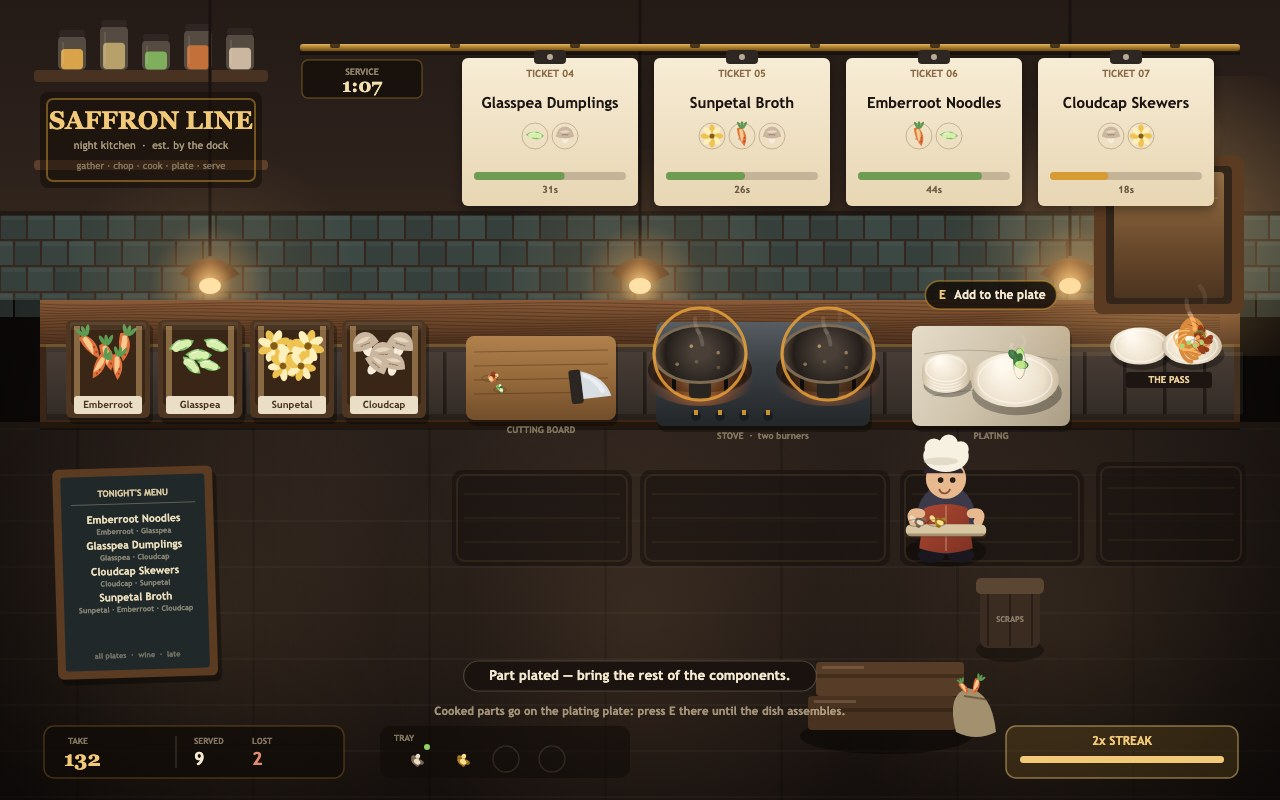
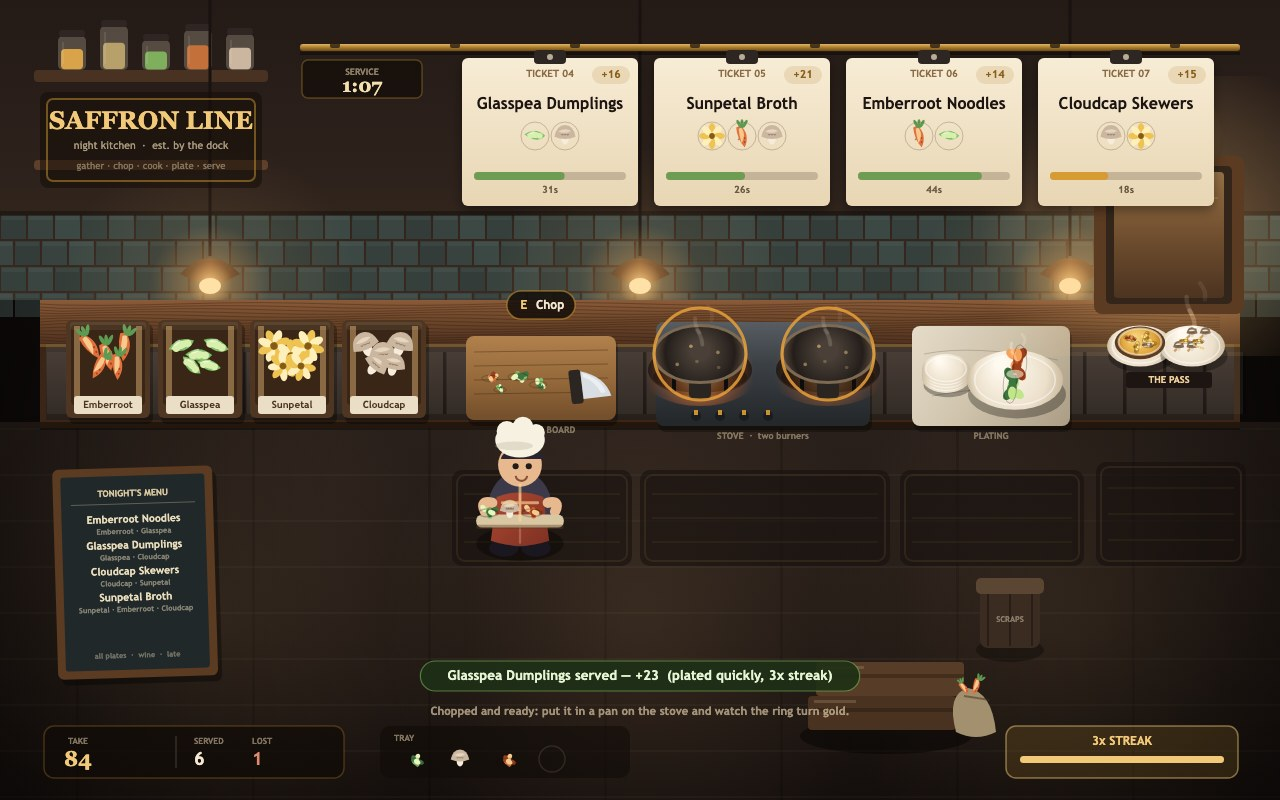
Sharper service framing: bigger chef, ticket payouts, fuller plates
Restage the cover around plating mid-assembly with finished plates on the
pass, and make the food, tickets and chef read at a glance.

diff --git a/game/src/main.js b/game/src/main.js
@@ -252,16 +252,44 @@ function seedShot(index) {
   const chef = game.chef;
 
   if (index === 1) {
-    order('ember_noodles', 39, 54);
-    order('glass_dumplings', 24, 50);
-    order('cloud_skewers', 33, 48);
-    order('sun_broth', 12, 46);
+    order('glass_dumplings', 31, 52);
+    order('sun_broth', 26, 50);
+    order('ember_noodles', 44, 54);
+    order('cloud_skewers', 18, 47);
+    game.pans[0].item = true;
+    game.pans[0].itemId = 'glasspea';
+    game.pans[0].since = game.time - 3.2;
+    game.pans[1].item = true;
+    game.pans[1].itemId = 'cloudcap';
+    game.pans[1].since = game.time - 1.4;
+    game.plating.items = [{ id: 'glasspea', quality: 'perfect' }];
+    game.plating.dish = null;
+    game.readyPlates = ['ember_noodles', 'cloud_skewers'];
+    chef.x = 946;
+    chef.y = 522;
+    chef.facing = 'left';
+    chef.carry = [
+      { kind: 'cooked', id: 'cloudcap', quality: 'perfect' },
+      { kind: 'chopped', id: 'sunpetal' },
+    ];
+    chef.action = { kind: 'plate', until: game.time + 30, station: 'plating' };
+    game.coins = 132;
+    game.served = 9;
+    game.wasted = 2;
+    game.combo = 2;
+    game.comboUntil = game.time + 7;
+    game.messages.push({ text: 'Part plated — bring the rest of the components.', tone: 'info', until: game.time + 30 });
+  } else if (index === 2) {
+    order('glass_dumplings', 31, 52);
+    order('sun_broth', 26, 50);
+    order('ember_noodles', 44, 54);
+    order('cloud_skewers', 18, 47);
     game.pans[0].item = true;
     game.pans[0].itemId = 'emberroot';
-    game.pans[0].since = game.time - 3.5;
+    game.pans[0].since = game.time - 3.6;
     game.pans[1].item = true;
     game.pans[1].itemId = 'sunpetal';
-    game.pans[1].since = game.time - 1.2;
+    game.pans[1].since = game.time - 1.1;
     game.plating.items = [
       { id: 'emberroot', quality: 'perfect' },
       { id: 'glasspea', quality: 'ok' },
@@ -282,37 +310,9 @@ function seedShot(index) {
     game.wasted = 1;
     game.combo = 3;
     game.comboUntil = game.time + 6;
-    game.messages.push({ text: 'Glasspea Dumplings served — +23  (plated quickly, 3x streak)', tone: 'good', until: game.time + 30 });
-  } else if (index === 2) {
-    order('glass_dumplings', 31, 52);
-    order('sun_broth', 26, 50);
-    order('ember_noodles', 44, 54);
-    order('cloud_skewers', 18, 47);
-    game.pans[0].item = true;
-    game.pans[0].itemId = 'cloudcap';
-    game.pans[0].since = game.time - 2.8;
-    game.pans[1].item = true;
-    game.pans[1].itemId = 'emberroot';
-    game.pans[1].since = game.time - 0.7;
-    game.plating.items = [{ id: 'glasspea', quality: 'perfect' }];
-    game.plating.dish = null;
-    game.readyPlates = ['ember_noodles'];
-    chef.x = 946;
-    chef.y = 522;
-    chef.facing = 'left';
-    chef.carry = [
-      { kind: 'cooked', id: 'cloudcap', quality: 'perfect' },
-      { kind: 'cooked', id: 'sunpetal', quality: 'ok' },
-    ];
-    chef.action = { kind: 'plate', until: game.time + 30, station: 'plating' };
-    game.coins = 132;
-    game.served = 9;
-    game.wasted = 2;
-    game.combo = 2;
-    game.comboUntil = game.time + 7;
     game.time = 118;
     game.timeLeft = NIGHT_SECONDS - game.time;
-    game.messages.push({ text: 'Part plated — bring the rest of the components.', tone: 'info', until: game.time + 30 });
+    game.messages.push({ text: 'Glasspea Dumplings served — +23  (plated quickly, 3x streak)', tone: 'good', until: game.time + 30 });
   } else if (index === 3) {
     order('cloud_skewers', 21, 50);
     order('ember_noodles', 27, 52);

diff --git a/game/src/render.js b/game/src/render.js
@@ -500,11 +500,11 @@ function drawPlating(ctx, station, game, time) {
   // Assembly plate, where cooked parts wait for the rest of their dish.
   const ax = station.x + station.w / 2 + 24;
   const ay = station.y + 60;
-  drawPlate(ctx, ax, ay, 44);
+  drawPlate(ctx, ax, ay, 48);
   if (game.plating.items.length) {
-    drawPartialPlate(ctx, game.plating.items.map((item) => item.id), ax, ay - 6, 48, time);
+    drawPartialPlate(ctx, game.plating.items.map((item) => item.id), ax, ay - 6, 54, time);
   } else if (game.plating.dish) {
-    drawDish(ctx, game.plating.dish.recipeId, ax, ay - 6, 44, time, { steam: true });
+    drawDish(ctx, game.plating.dish.recipeId, ax, ay - 6, 50, time, { steam: true });
   }
 
   label(ctx, 'PLATING', station.x + station.w / 2, station.y + station.h + 14, {
@@ -576,12 +576,12 @@ function drawPass(ctx, station, game, time) {
   ctx.stroke();
 
   // Plates waiting under the heat lamp, one carrying a finished dish.
-  drawPlate(ctx, station.x + 32, station.y + 40, 30);
-  drawPlate(ctx, station.x + 84, station.y + 40, 30);
+  drawPlate(ctx, station.x + 32, station.y + 40, 33);
+  drawPlate(ctx, station.x + 84, station.y + 40, 33);
   const ready = game.readyPlates ?? [];
   ready.forEach((recipeId, index) => {
-    if (index === 0) drawDish(ctx, recipeId, station.x + 84, station.y + 36, 32, time, { steam: true });
-    if (index === 1) drawDish(ctx, recipeId, station.x + 32, station.y + 36, 32, time, {});
+    if (index === 0) drawDish(ctx, recipeId, station.x + 84, station.y + 35, 37, time, { steam: true });
+    if (index === 1) drawDish(ctx, recipeId, station.x + 32, station.y + 35, 37, time, {});
   });
 
   ctx.fillStyle = '#1d1512';

diff --git a/game/src/art.js b/game/src/art.js
@@ -483,7 +483,7 @@ export function drawChef(ctx, chef, time) {
   const flip = facing === 'left' ? -1 : 1;
   ctx.save();
   ctx.translate(x, y + bob);
-  ctx.scale(1.34, 1.34);
+  ctx.scale(1.46, 1.46);
 
   // Shadow.
   ctx.fillStyle = 'rgba(0, 0, 0, 0.32)';
@@ -655,7 +655,7 @@ export function drawTicket(ctx, order, x, y, w, h, remaining, time) {
   // Dish name, wrapped to two lines if needed.
   const words = recipe.name.split(' ');
   ctx.fillStyle = PALETTE.ink;
-  ctx.font = '700 15px "Trebuchet MS", "Gill Sans", sans-serif';
+  ctx.font = '700 16px "Trebuchet MS", "Gill Sans", sans-serif';
   ctx.textAlign = 'center';
   ctx.textBaseline = 'middle';
   if (words.length > 2) {
@@ -670,13 +670,19 @@ export function drawTicket(ctx, order, x, y, w, h, remaining, time) {
   const spacing = Math.min(30, (w - 20) / items.length);
   const startX = w / 2 - ((items.length - 1) * spacing) / 2;
   items.forEach((id, index) => {
-    drawIngredient(ctx, id, startX + index * spacing, 78, 15, { cooked: false });
+    drawIngredient(ctx, id, startX + index * spacing, 78, 17, { cooked: false });
     ctx.strokeStyle = 'rgba(120, 92, 60, 0.35)';
     ctx.lineWidth = 1;
     ctx.beginPath();
-    ctx.arc(startX + index * spacing, 78, 13, 0, Math.PI * 2);
+    ctx.arc(startX + index * spacing, 78, 14, 0, Math.PI * 2);
     ctx.stroke();
   });
+
+  // What the ticket pays, small and brass in the corner.
+  ctx.fillStyle = 'rgba(176, 126, 42, 0.16)';
+  roundRect(ctx, w - 46, 8, 38, 18, 9);
+  ctx.fill();
+  label(ctx, '+' + order.value, w - 27, 17, { size: 11, weight: '800', color: '#8a5f1c' });
 
   // Patience bar with the seconds left.
   const barW = w - 24;
